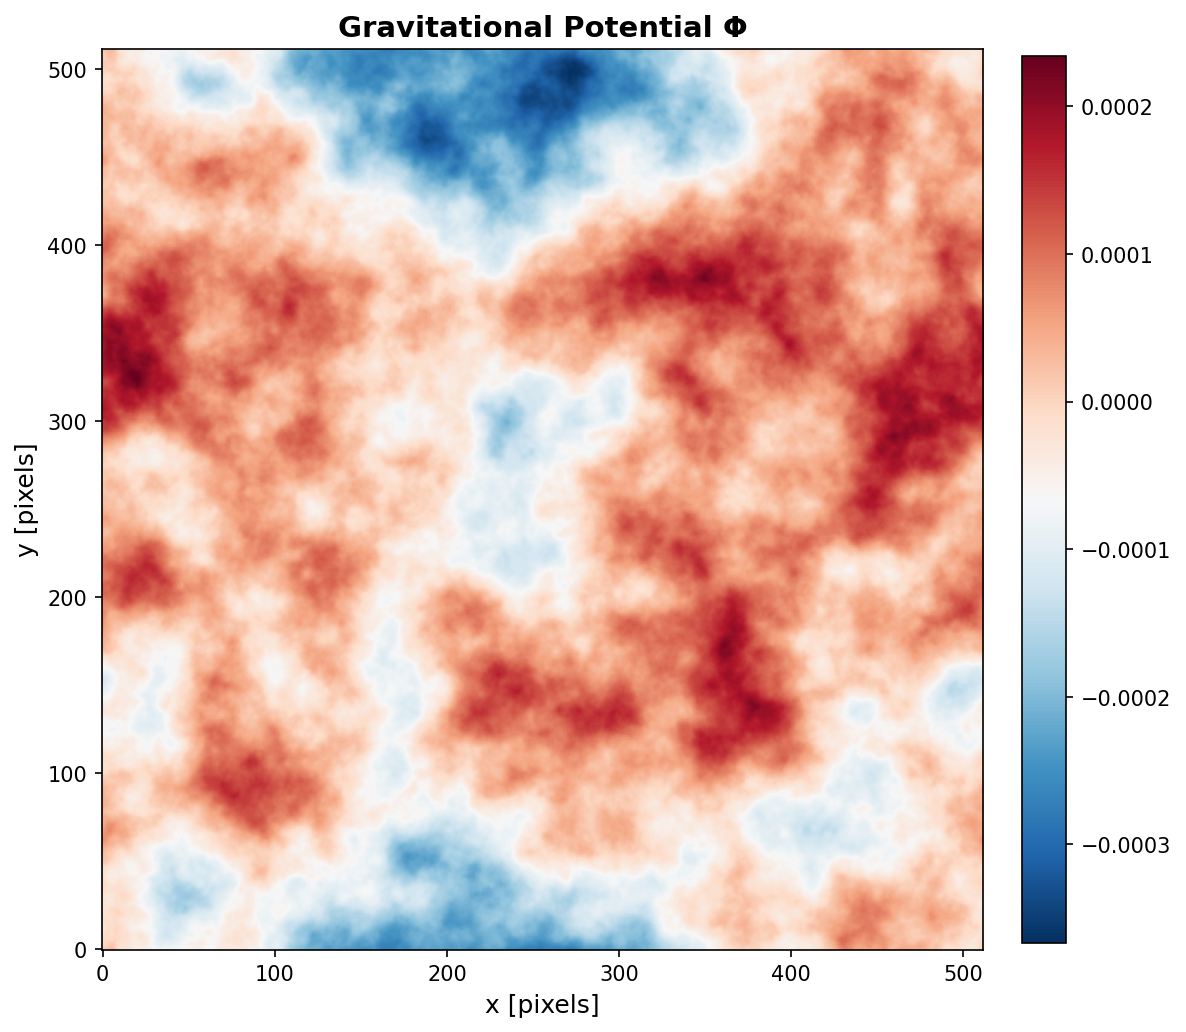
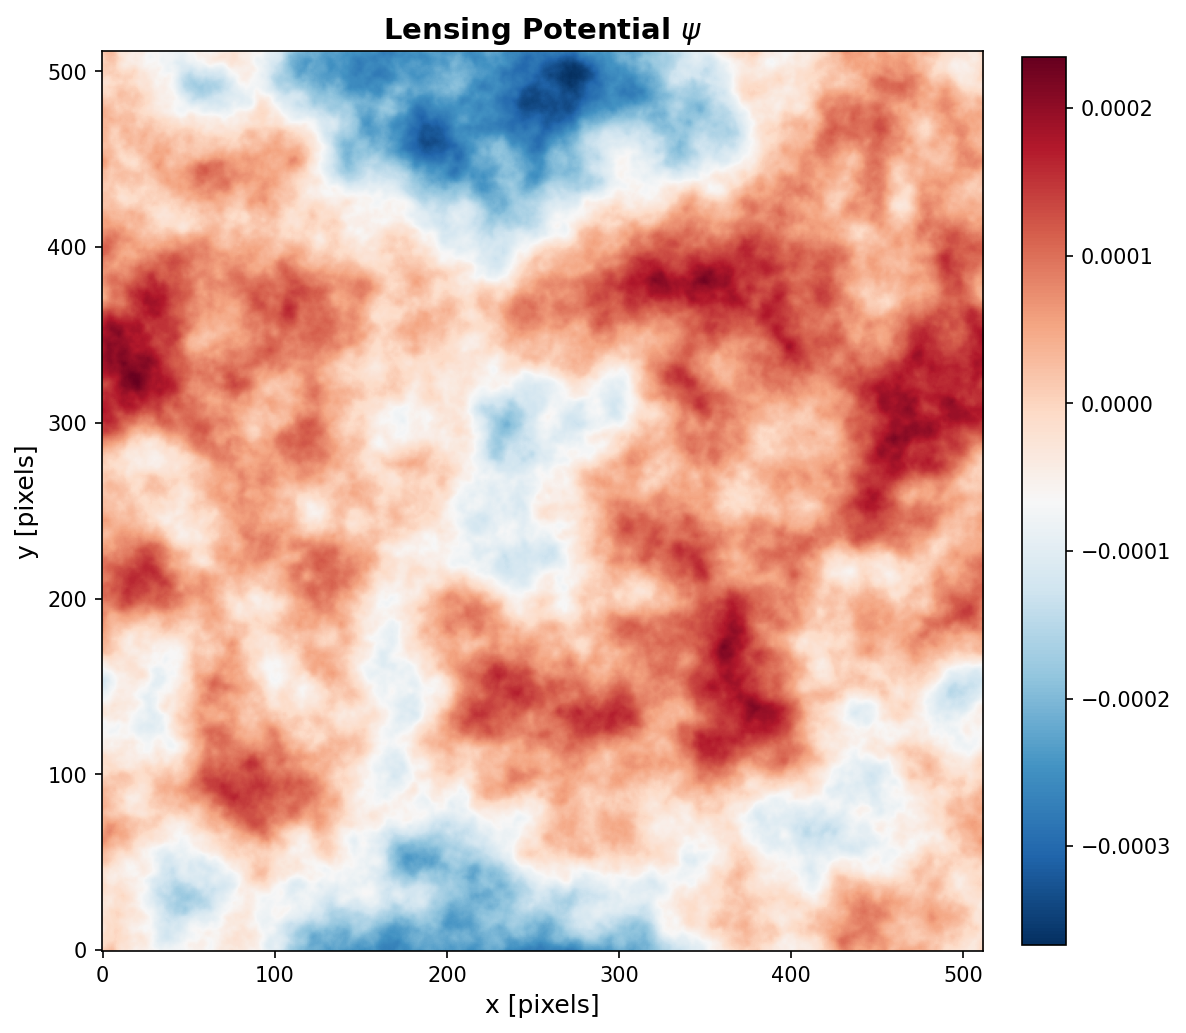
Fix remaining field plot titles to use ψ notation
- Lensing Potential ψ (was Gravitational Potential Φ)
- Shear γ₁, γ₂ with full definitions

diff --git a/main.py b/main.py
@@ -459,7 +459,7 @@ def main(config_path="config.yaml"):
     print("STEP 3: Create field visualizations")
     print("="*60)
 
-    plot_field(phi_real, 'Gravitational Potential Φ',
+    plot_field(phi_real, r'Lensing Potential $\psi$',
               f'{output_dir}/phi_field.png', cmap='RdBu_r', dpi=dpi)
 
     plot_field(scalar_field, r'Convergence $\kappa = A\ell^2\psi$',
@@ -469,10 +469,10 @@ def main(config_path="config.yaml"):
               f'{output_dir}/vector_field.png', cmap='viridis', dpi=dpi)
 
     # For spin-2, create two plots (one for each component)
-    plot_field(gamma1, r'Spin-2 Field $\gamma_1$',
+    plot_field(gamma1, r'Shear $\gamma_1 = \mathrm{Re}(C\ell^2 e^{2i\phi}\psi)$',
               f'{output_dir}/spin2_field_gamma1.png', cmap='RdBu_r', dpi=dpi)
 
-    plot_field(gamma2, r'Spin-2 Field $\gamma_2$',
+    plot_field(gamma2, r'Shear $\gamma_2 = \mathrm{Im}(C\ell^2 e^{2i\phi}\psi)$',
               f'{output_dir}/spin2_field_gamma2.png', cmap='RdBu_r', dpi=dpi)
 
     # Save field arrays if requested
